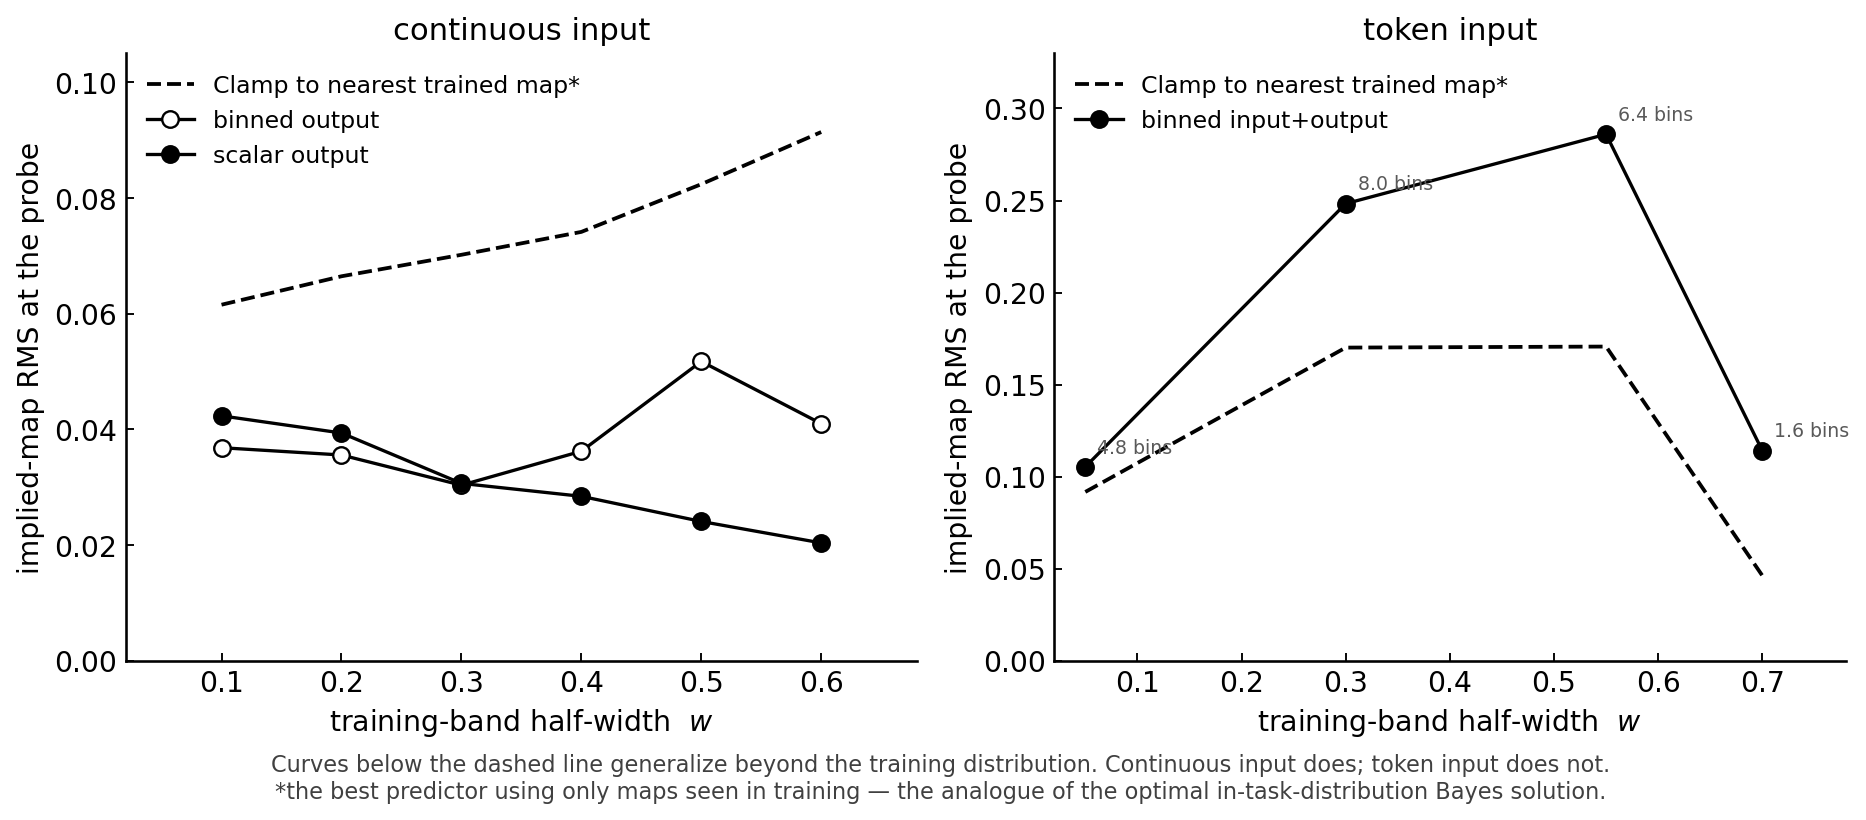
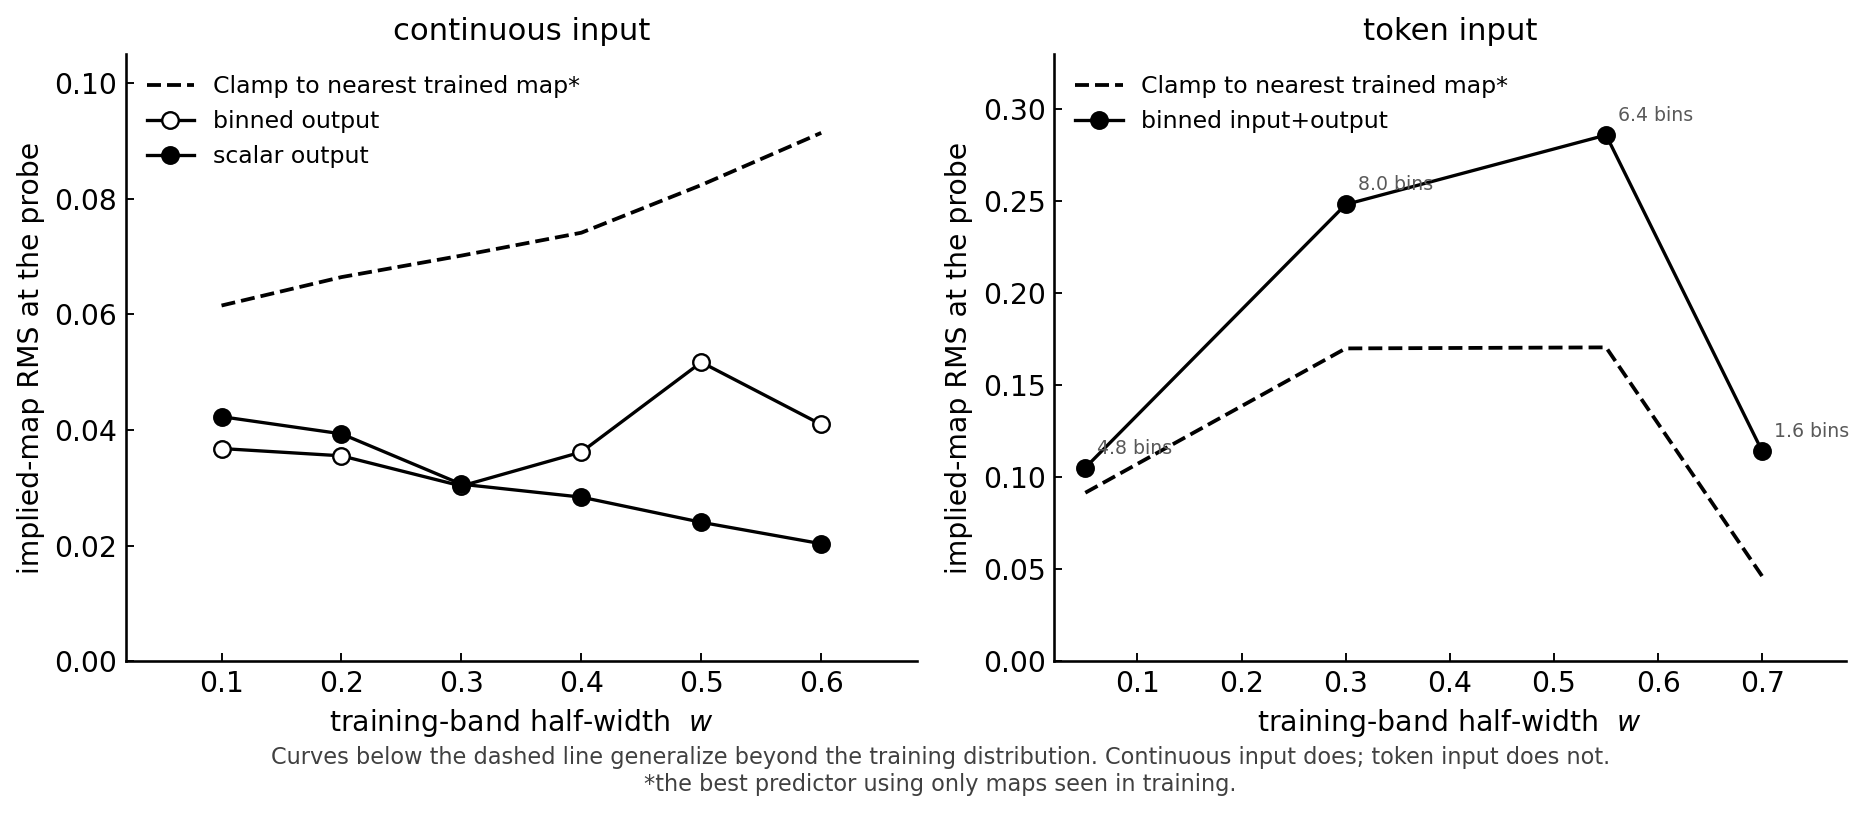
Trim the figure caption

diff --git a/scripts/plot_adaptation_fig3.py b/scripts/plot_adaptation_fig3.py
@@ -92,10 +92,9 @@ ax.legend(frameon=False, fontsize=10, loc="upper left")
 for s in ("top", "right"):
     ax.spines[s].set_visible(False)
 
-fig.text(0.5, -0.04, "Curves below the dashed line generalize beyond the "
+fig.text(0.5, -0.03, "Curves below the dashed line generalize beyond the "
          "training distribution. Continuous input does; token input does not.\n"
-         "*the best predictor using only maps seen in training — the analogue "
-         "of the optimal in-task-distribution Bayes solution.",
+         "*the best predictor using only maps seen in training.",
          ha="center", fontsize=9.5, color="0.25")
 fig.tight_layout()
 for e in ("png", "pdf"):
